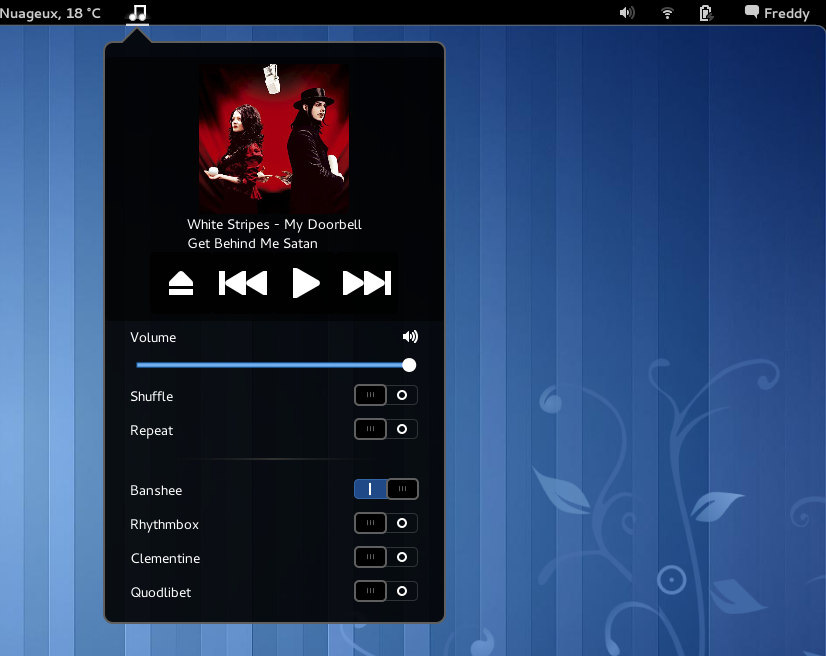
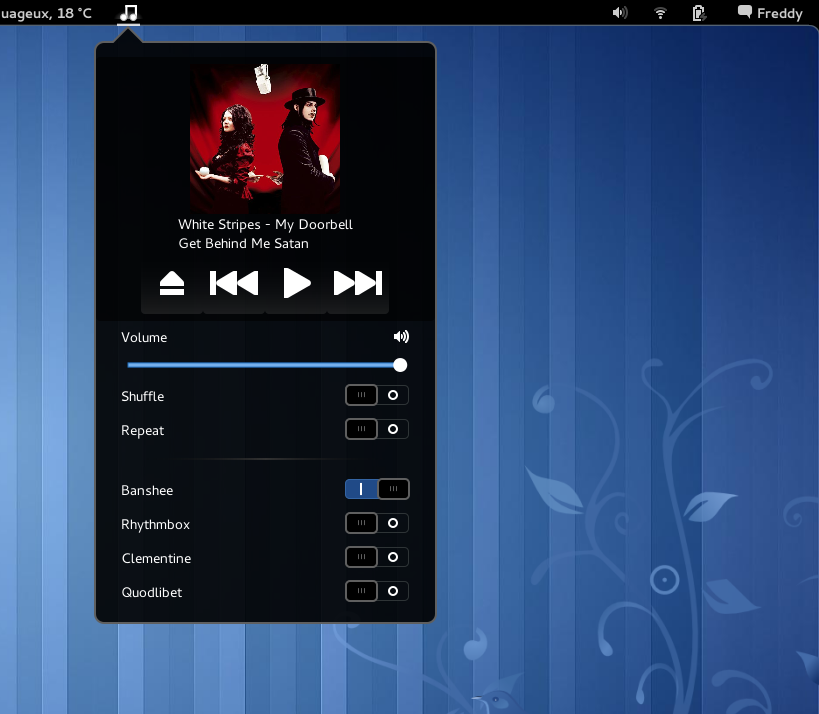
Black Button added

diff --git a/mediasplayers@ycdref/stylesheet.css b/mediasplayers@ycdref/stylesheet.css
@@ -2,20 +2,20 @@
     padding:7px;
     background-gradient-start: rgba(0,0,0,0.6);
     background-gradient-end: rgba(0,0,0,0.6);
-    border-radius: 4px;
+    border-radius: 4px;font-weight: bold;color:#cccccc
 }
 .button {
     padding:7px;
     background-gradient-start: rgba(0,0,0,0.8);
     background-gradient-end: rgba(0,0,0,0.8);
-    border-radius: 4px;
+    border-radius: 4px;    
 }
 .button:hover {
     padding: 7px;
 	border-radius: 4px;
 	background-image: url("../../usr/share/gnome-shell/theme/panel-button-highlight-wide.svg");
 	background-gradient-direction: vertical;
-    background-gradient-start: rgba(0,0,0,0.2);
-    background-gradient-end: rgba(0,0,0,0.2);
+    background-gradient-start: rgba(0,0,0,0.0);
+    background-gradient-end: rgba(0,0,0,0.0);
     transition-duration: 100;
 }
